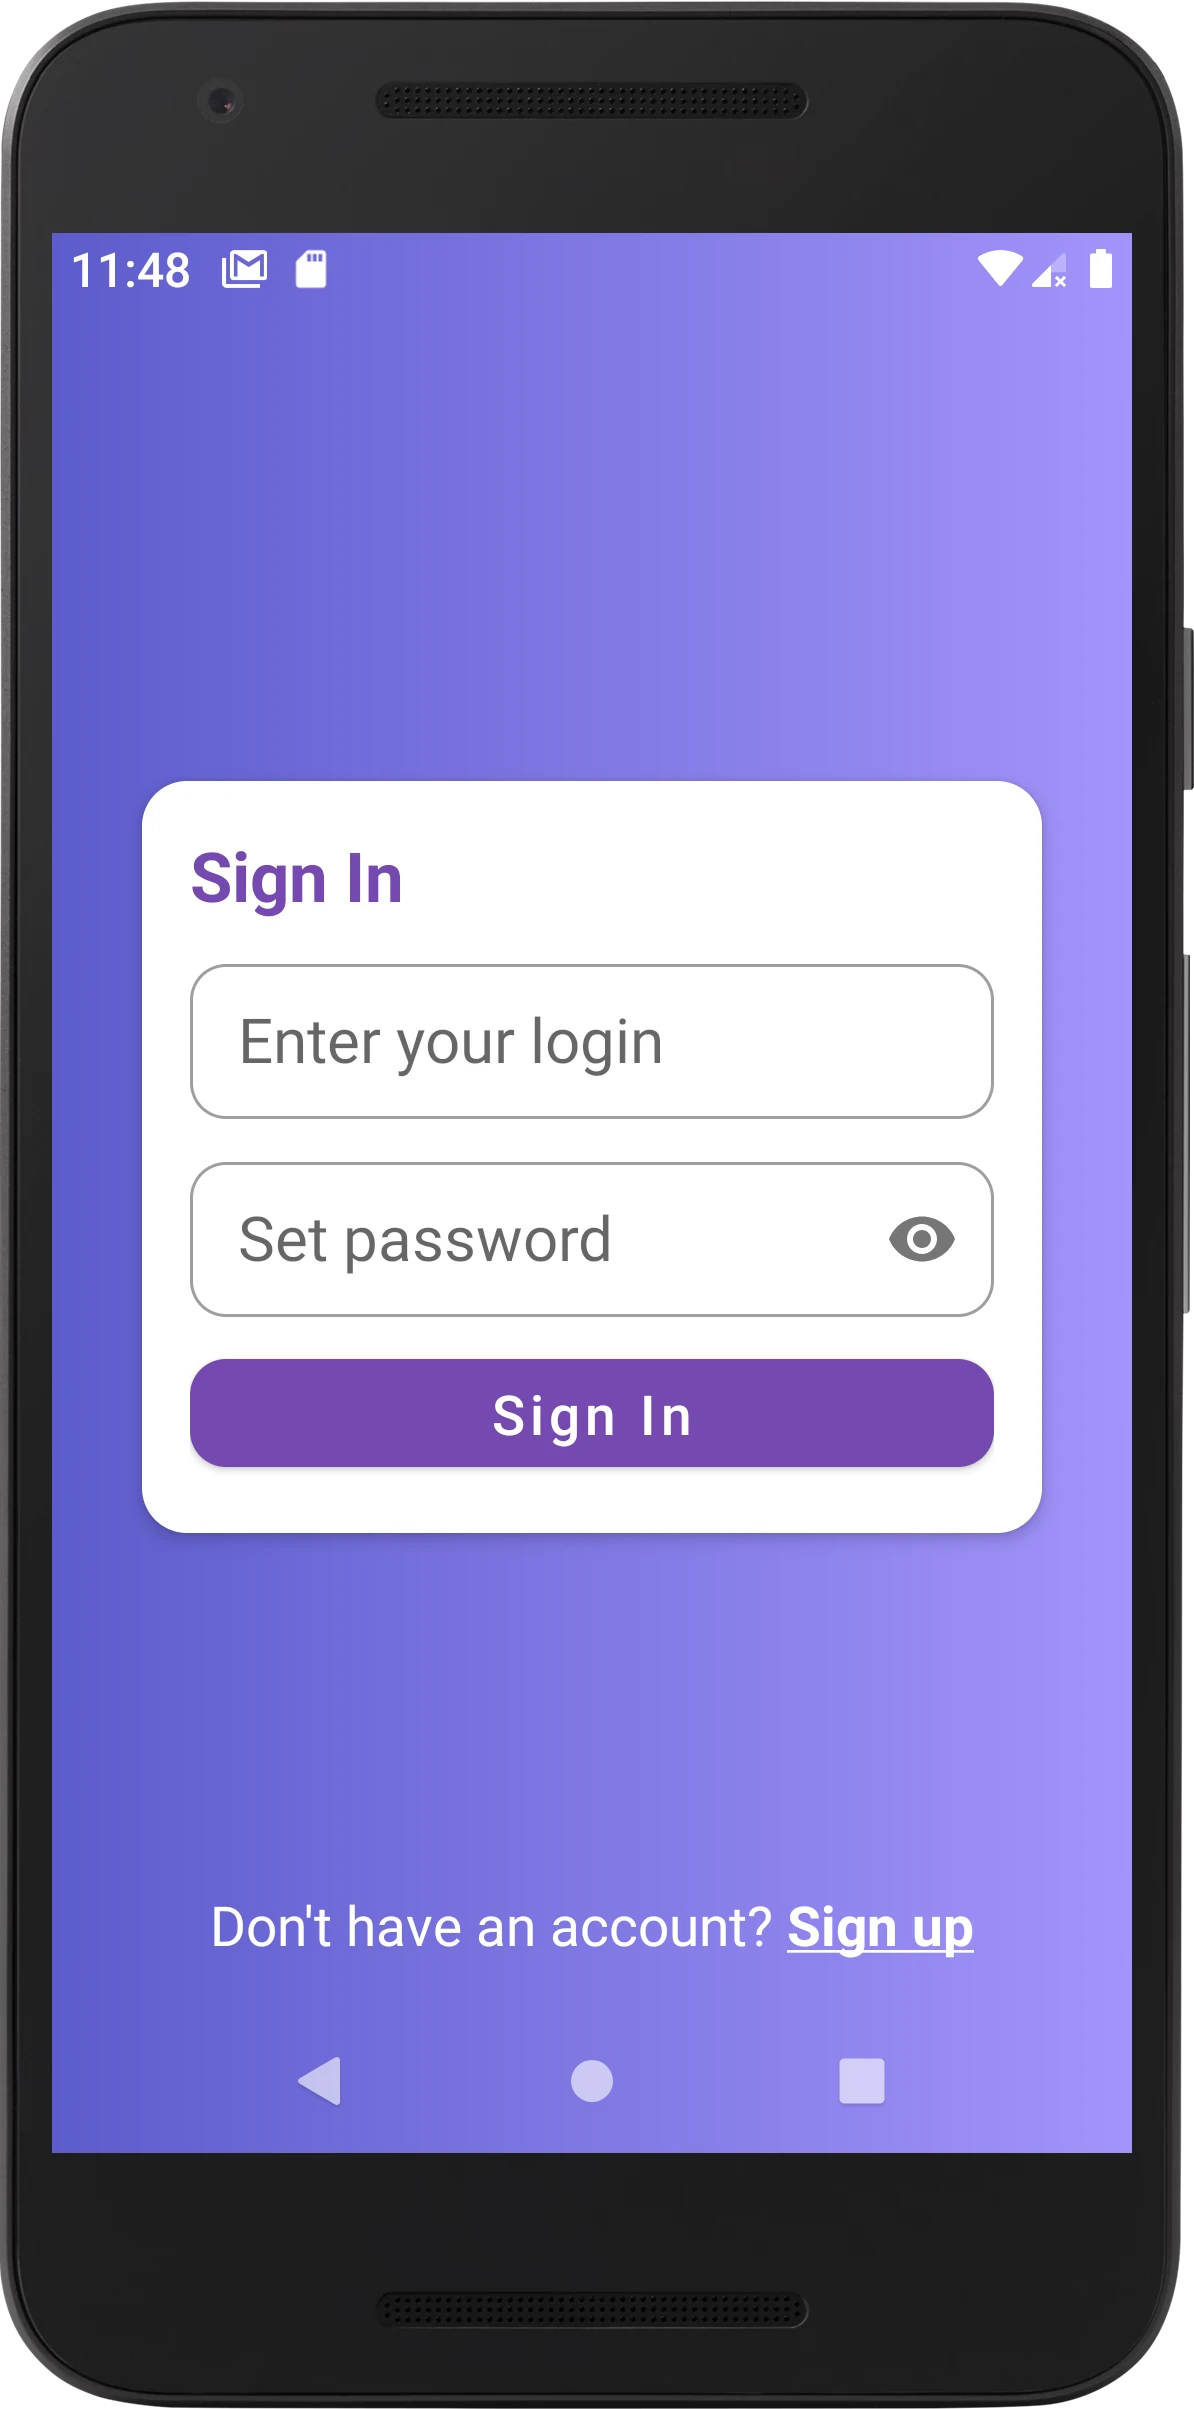
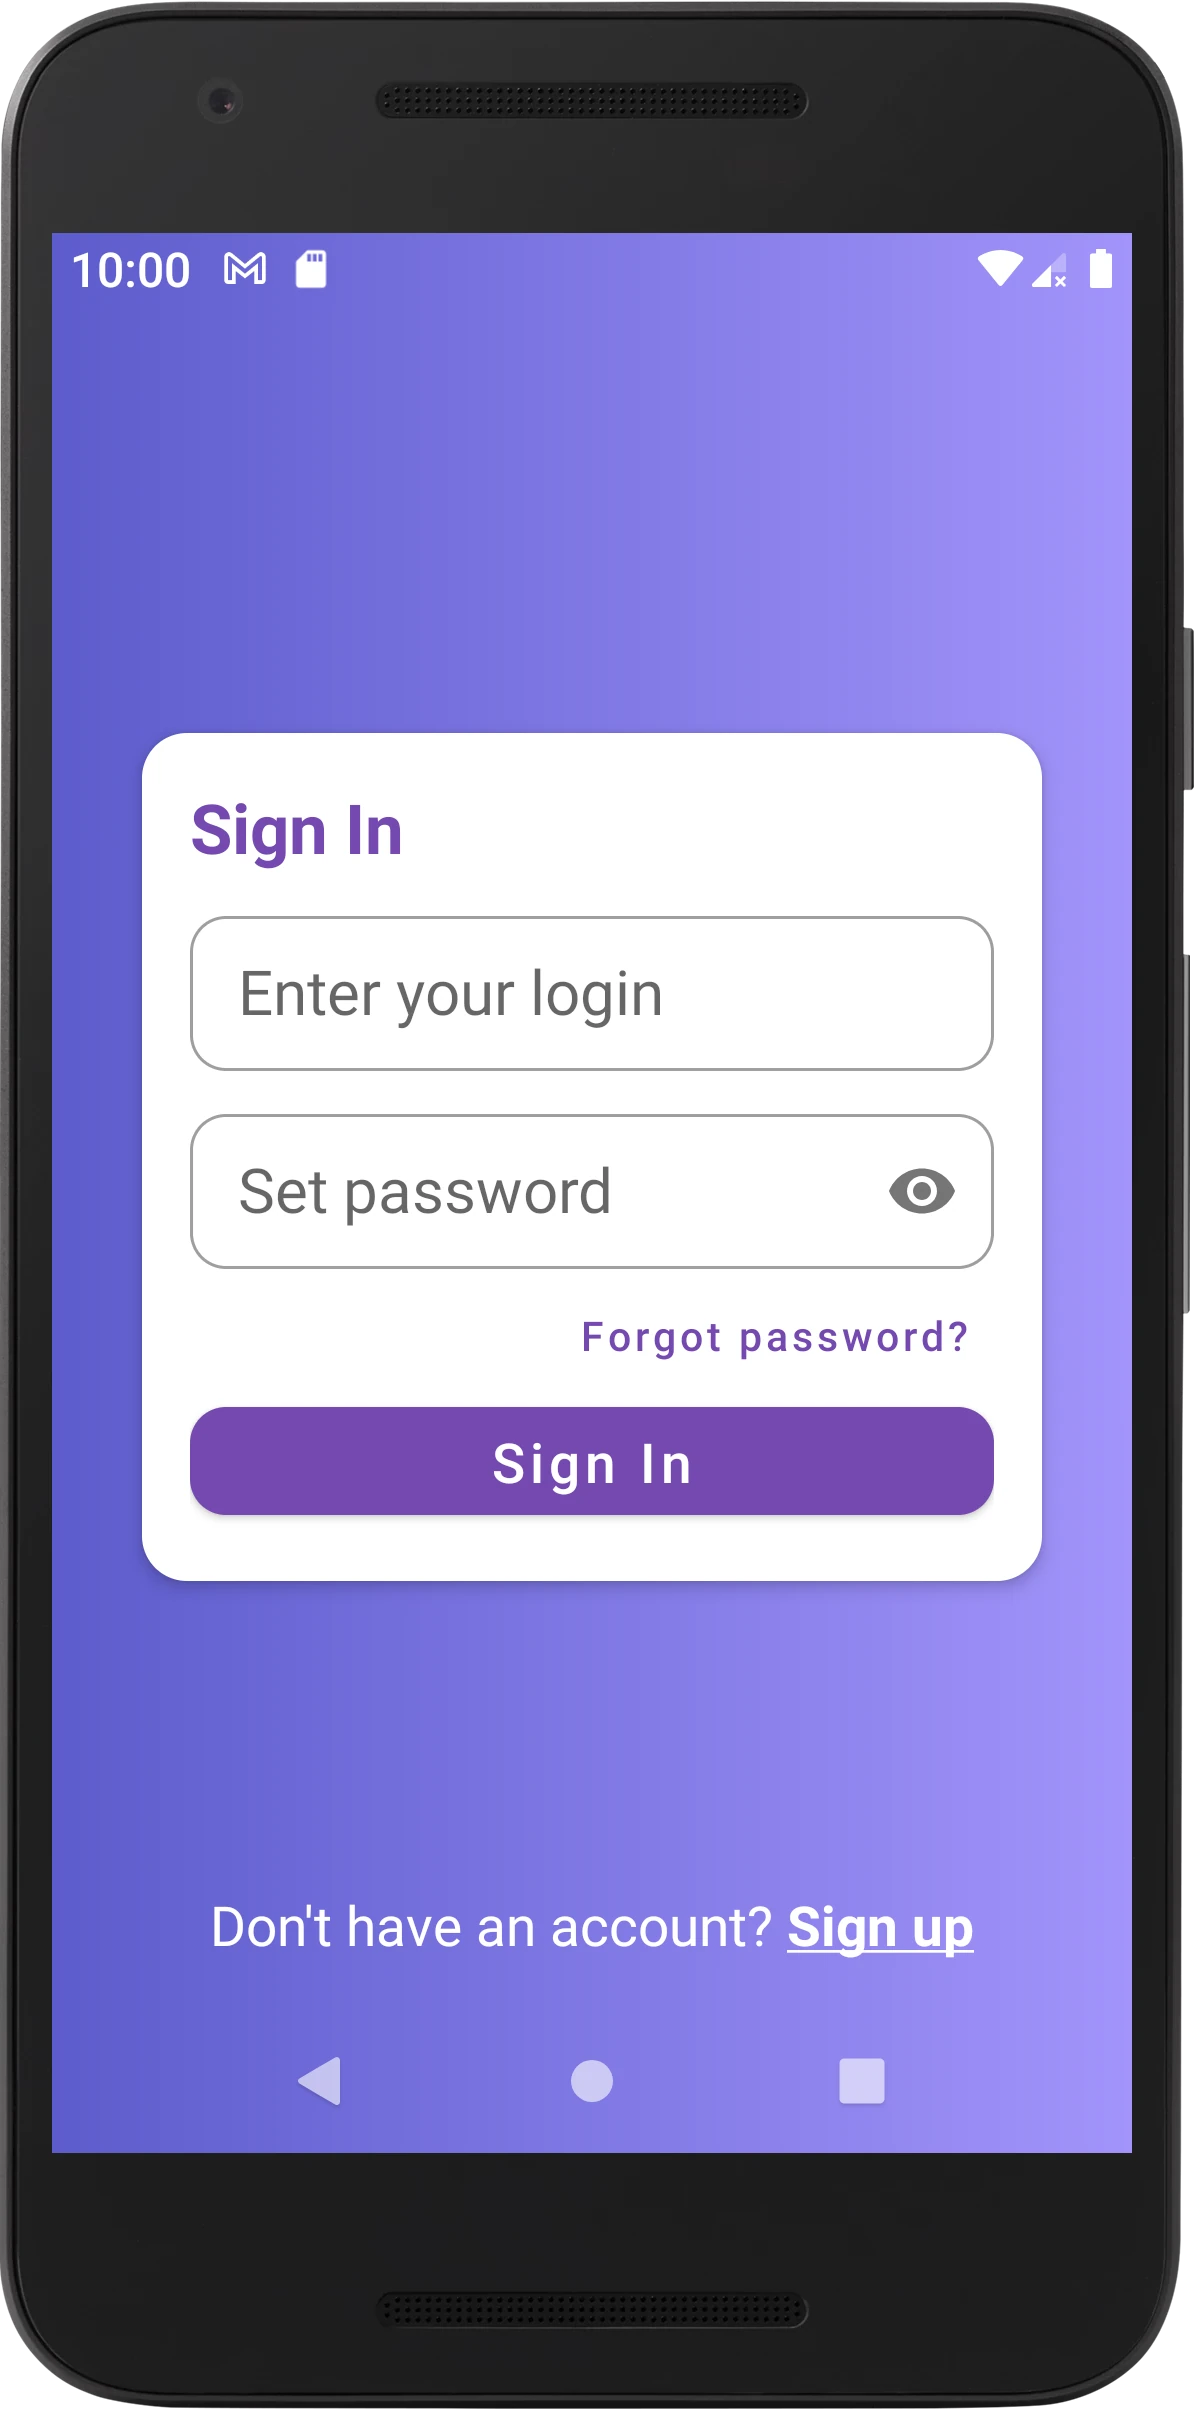
Update README.md

diff --git a/README.md b/README.md
@@ -1,14 +1,22 @@
 # AffinidiID
 
+
 * [Description](#description)
 * [What is Affinidi Wallet](#what-is-affinidi-wallet)
 * [Used APIs](#used-apis)
 * [Implemented use cases](#implemented-use-cases)
-* [Screenshots](#screenshots)
 * [Technical stack](#technical-stack)
+
 
 ## Description
 **AffinidiID** is a sample android app built with Affinidi API for learning purpose. Created to dive into the technical aspects of **Self-Sovereign Identity** and **Verifiable Credentials** [concepts](hhttps://academy.affinidi.com/an-in-depth-exploration-of-self-sovereign-identity-and-verifiable-credentials-1a3eb2296004).
+
+<p align="left">
+<img src="doc/screenshot_sign_in.webp" width="23%"/>
+<img src="doc/screenshot_sign_up.webp" width="23%"/>
+<img src="doc/screenshot_profile.webp" width="23%"/>
+<img src="doc/screenshot_logout.webp" width="23%"/>
+</p>
 
 ## What is Affinidi Wallet
 The Affinidi Wallet is a web-based responsive SSI [wallet application](https://wallet.affinidi.com/) for holders to request, store, share and manage their Veriiable Credentials.
@@ -19,20 +27,12 @@ In this application the [Affinidi APIs](https://build.affinidi.com/docs/api) are
 Also [DiceBear Avatars API](https://avatars.dicebear.com/) is used to generate unique avatars depending on the user's DID.
 
 ## Implemented use cases
-The first version (v0.1-alpha) covers the following use cases:
+The last version (v0.2-alpha) covers the following use cases:
 - Sign up
 - Sign in
 - View profile info (username, DID)
 - Logout
-
-## Screenshots
-
-<p align="left">
-<img src="doc/screenshot_sign_in.webp" width="23%"/>
-<img src="doc/screenshot_sign_up.webp" width="23%"/>
-<img src="doc/screenshot_profile.webp" width="23%"/>
-<img src="doc/screenshot_logout.webp" width="23%"/>
-</p>
+- Reset password
 
 ## Technical stack
 - Single activity approach and [Navigation component](https://developer.android.com/guide/navigation) (with SafeArgs) to navigate across fragments.
